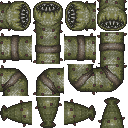
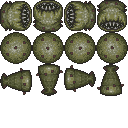
Added Ghost creature. Reworked slugzilla graphics.

diff --git a/src/creature.c b/src/creature.c
@@ -47,6 +47,7 @@ static int creature_image_phantom;
 static int creature_image_rock;
 static int creature_image_uniball;
 static int creature_image_slugzilla;
+static int creature_image_ghost;
 
 static void creature_update_slug(Creature* c, float dt);
 static void creature_update_clinger(Creature* c, float dt);
@@ -73,6 +74,7 @@ static void creature_update_phantom(Creature* c, float dt);
 static void creature_update_rock(Creature* c, float dt);
 static void creature_update_uniball(Creature* c, float dt);
 static void creature_update_slugzilla(Creature* c, float dt);
+static void creature_update_ghost(Creature* c, float dt);
 
 static void creature_fire_projectile(Creature* c, float angle);
 
@@ -114,6 +116,7 @@ void creature_init()
     creature_image_rock = gfx_load_image("src/img/rock1.png", false, false, 32, 32);
     creature_image_uniball = gfx_load_image("src/img/creature_uniball.png", false, false, 32, 32);
     creature_image_slugzilla = gfx_load_image("src/img/creature_slugzilla.png", false, false, 32, 32);
+    creature_image_ghost = gfx_load_image("src/img/creature_ghost.png", false, false, 24, 24);
 }
 
 char* creature_type_name(CreatureType type)
@@ -172,6 +175,8 @@ char* creature_type_name(CreatureType type)
             return "Uniball";
         case CREATURE_TYPE_SLUGZILLA:
             return "Slugzilla";
+        case CREATURE_TYPE_GHOST:
+            return "Ghost";
         default:
             return "???";
     }
@@ -232,6 +237,8 @@ int creature_get_image(CreatureType type)
             return creature_image_uniball;
         case CREATURE_TYPE_SLUGZILLA:
             return creature_image_slugzilla;
+        case CREATURE_TYPE_GHOST:
+            return creature_image_ghost;
         default:
             return -1;
     }
@@ -639,6 +646,21 @@ void creature_init_props(Creature* c)
             c->xp = 15;
             c->segmented = true;
         } break;
+        case CREATURE_TYPE_GHOST:
+        {
+            c->phys.speed = 60.0;
+            c->act_time_min = 0.5;
+            c->act_time_max = 2.0;
+            c->phys.mass = 0.5;
+            c->phys.base_friction = 20.0;
+            c->phys.hp_max = 1.0;
+            c->painful_touch = true;
+            c->phys.radius = 0.5*MAX(c->phys.width,c->phys.height);
+            c->phys.floating = true;
+            c->phys.bobbing = true;
+            c->phys.crawling = false;
+            c->xp = 30;
+        } break;
     }
 
     if(c->phys.crawling)
@@ -1005,6 +1027,9 @@ void creature_update(Creature* c, float dt)
                 break;
             case CREATURE_TYPE_SLUGZILLA:
                 creature_update_slugzilla(c,dt);
+                break;
+            case CREATURE_TYPE_GHOST:
+                creature_update_ghost(c,dt);
                 break;
         }
     }
@@ -1471,17 +1496,12 @@ Creature* creature_get_nearest(uint8_t room_index, float x, float y)
 
 static void creature_update_slug(Creature* c, float dt)
 {
-
     bool act = ai_update_action(c, dt);
 
     if(act)
     {
         ai_stop_imm(c);
-
-        if(ai_flip_coin())
-        {
-            ai_random_walk(c);
-        }
+        ai_random_walk(c);
     }
 }
 
@@ -1532,11 +1552,7 @@ static void creature_update_spiked_slug(Creature* c, float dt)
         if(act)
         {
             ai_stop_imm(c);
-
-            if(ai_flip_coin())
-            {
-                ai_random_walk_cardinal(c);
-            }
+            ai_random_walk_cardinal(c);
         }
     }
 }
@@ -3015,4 +3031,72 @@ static void creature_update_slugzilla(Creature* c, float dt)
         if(act) c->ai_state = 0;
     }
 
+}
+
+static void creature_update_ghost(Creature* c, float dt)
+{
+    if(c->ai_state > 0)
+    {
+        c->ai_counter += dt;
+        if(c->ai_counter >= c->ai_counter_max)
+        {
+            c->ai_counter = 0.0;
+
+            if(c->ai_state == 1)
+            {
+                c->ai_state = 0;
+
+                Vector2f pos = level_get_pos_by_room_coords(c->target_tile.x, c->target_tile.y);
+                c->phys.pos.x = pos.x;
+                c->phys.pos.y = pos.y;
+
+                // explode projectiles
+                int num_projectiles = 6;
+                float a = 0.0;
+                float aplus = 360.0 / num_projectiles;
+                for(int i = 0; i < num_projectiles; ++i)
+                {
+                    creature_fire_projectile(c, a);
+                    a += aplus;
+                }
+            }
+        }
+
+        return;
+    }
+
+    bool act = ai_update_action(c, dt);
+
+    if(act)
+    {
+        Room* room = level_get_room_by_index(&level, c->phys.curr_room);
+        Vector2i tilec = {0};
+        Vector2f tilep = {0};
+
+        level_get_rand_floor_tile(room, &tilec, &tilep);
+
+        float duration = 2.0;
+
+        Decal d = {0};
+        d.image = particles_image;
+        d.sprite_index = 42;
+        d.tint = COLOR_ORANGE;
+        d.scale = 1.0;
+        d.rotation = 0.0;
+        d.opacity = 0.5;
+        d.ttl = duration;
+        d.pos.x = tilep.x;
+        d.pos.y = tilep.y;
+        d.room = c->phys.curr_room;
+        d.fade_pattern = 1;
+        decal_add(d);
+
+        c->target_tile.x = tilec.x;
+        c->target_tile.y = tilec.y;
+
+        c->ai_state = 1;
+        c->ai_value = 0;
+        c->ai_counter = 0;
+        c->ai_counter_max = duration;
+    }
 }

diff --git a/src/room_editor.c b/src/room_editor.c
@@ -846,7 +846,7 @@ void room_editor_draw()
                 }
 
                 int _creature_sel = creature_sel;
-                imgui_dropdown(creature_names, CREATURE_TYPE_MAX, "Select Creature", &creature_sel, &interacted);
+                imgui_listbox(creature_names, CREATURE_TYPE_MAX, "Selected Creature", &creature_sel, 10);
                 if(creature_sel != _creature_sel || interacted)
                 {
                     obj_sel = 2;

diff --git a/src/ai.h b/src/ai.h
@@ -160,7 +160,8 @@ void ai_walk_dir(Creature* c, Dir dir)
            c->type == CREATURE_TYPE_INFECTED ||
            c->type == CREATURE_TYPE_SPAWN_SPIDER ||
            c->type == CREATURE_TYPE_PHANTOM || 
-           c->type == CREATURE_TYPE_SLUGZILLA)
+           c->type == CREATURE_TYPE_SLUGZILLA ||
+           c->type == CREATURE_TYPE_GHOST)
             _update_sprite_index(c, dir);
     }
 }

diff --git a/src/creature.h b/src/creature.h
@@ -39,6 +39,7 @@ typedef enum
     CREATURE_TYPE_ROCK,
     CREATURE_TYPE_UNIBALL,
     CREATURE_TYPE_SLUGZILLA,
+    CREATURE_TYPE_GHOST,
     CREATURE_TYPE_MAX,
 } CreatureType;
 
